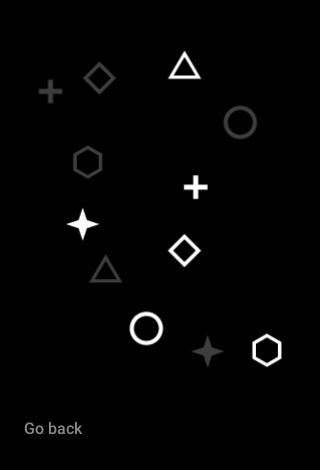
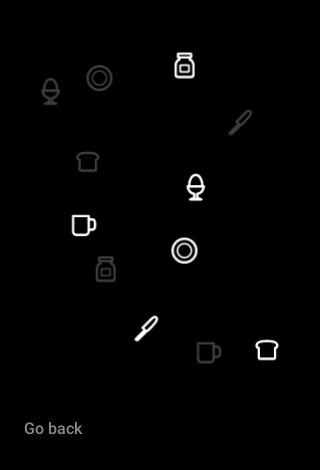
docs(site): update website and README screenshots for Toaster Timer and Breakfast Drag-to-Match (#182)

diff --git a/site/index.html b/site/index.html
@@ -49,8 +49,12 @@
         <figcaption>Search</figcaption>
       </figure>
       <figure class="shot-card">
-        <img src="/images/friction.png" alt="Dry Toast friction checkpoint" loading="lazy">
-        <figcaption>Friction</figcaption>
+        <img src="/images/toaster.png" alt="Dry Toast isometric 8-slice Dualit toaster timer" loading="lazy">
+        <figcaption>Toaster Timer</figcaption>
+      </figure>
+      <figure class="shot-card">
+        <img src="/images/friction.png" alt="Dry Toast breakfast drag-to-match checkpoint" loading="lazy">
+        <figcaption>Drag-to-Match</figcaption>
       </figure>
     </div>
   </main>

diff --git a/site/style.css b/site/style.css
@@ -173,8 +173,8 @@ code {
 /* Screenshot Strip */
 .shots-grid {
   display: grid;
-  grid-template-columns: repeat(3, 1fr);
-  gap: 1.25rem;
+  grid-template-columns: repeat(4, 1fr);
+  gap: 1.1rem;
   margin-top: 3.5rem;
 }
 
@@ -284,8 +284,8 @@ footer a:hover {
   }
 
   .shots-grid {
-    grid-template-columns: 1fr;
-    max-width: 280px;
+    grid-template-columns: repeat(2, 1fr);
+    max-width: 420px;
   }
 
   .split-row {

diff --git a/README.md b/README.md
@@ -10,11 +10,13 @@ Dry Toast (`com.garan.drytoast`) is a quiet, text-only Android launcher designed
 - **Direct APK Releases:** https://github.com/garanj/drytoast/releases/latest
 
 <p align="center">
-  <img src="site/images/home.png" width="210" alt="Dry Toast Home Screen" />
+  <img src="site/images/home.png" width="180" alt="Dry Toast Home Screen" />
   &nbsp;&nbsp;
-  <img src="site/images/search.png" width="210" alt="Dry Toast Fuzzy Search" />
+  <img src="site/images/search.png" width="180" alt="Dry Toast Fuzzy Search" />
   &nbsp;&nbsp;
-  <img src="site/images/friction.png" width="210" alt="Dry Toast Friction Checkpoint" />
+  <img src="site/images/toaster.png" width="180" alt="Dry Toast Toaster Timer Checkpoint" />
+  &nbsp;&nbsp;
+  <img src="site/images/friction.png" width="180" alt="Dry Toast Drag-to-Match Checkpoint" />
 </p>
 
 ---
